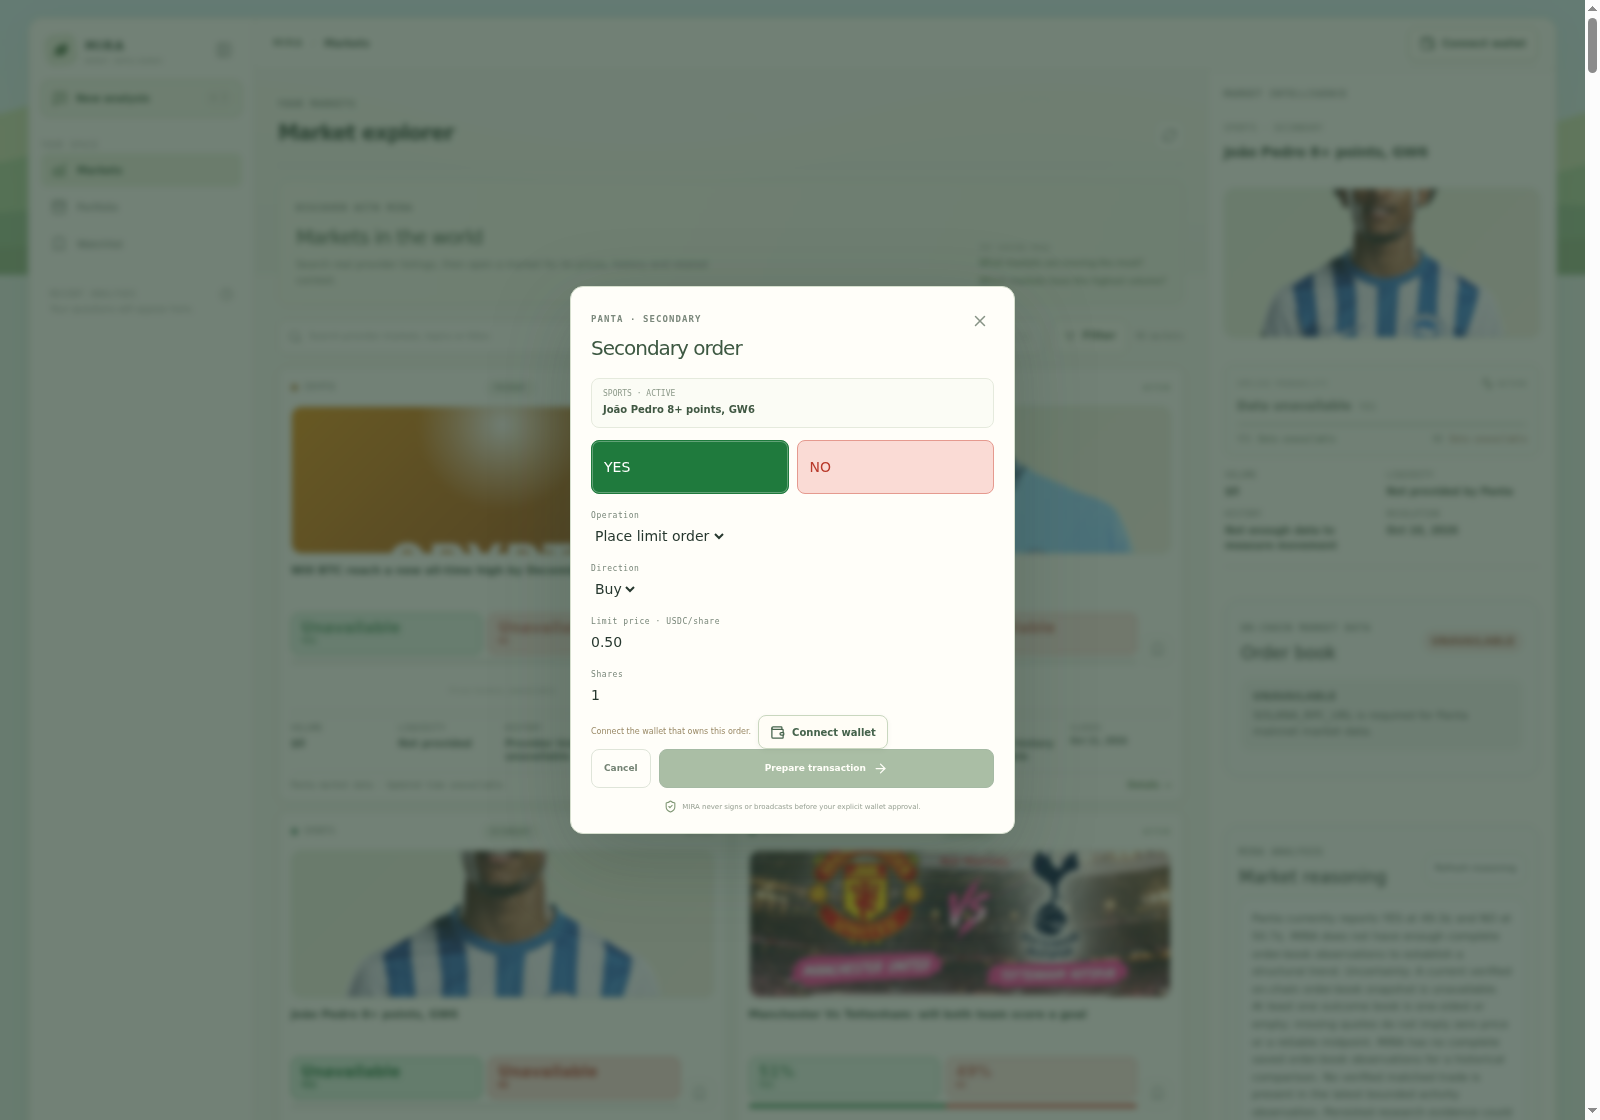
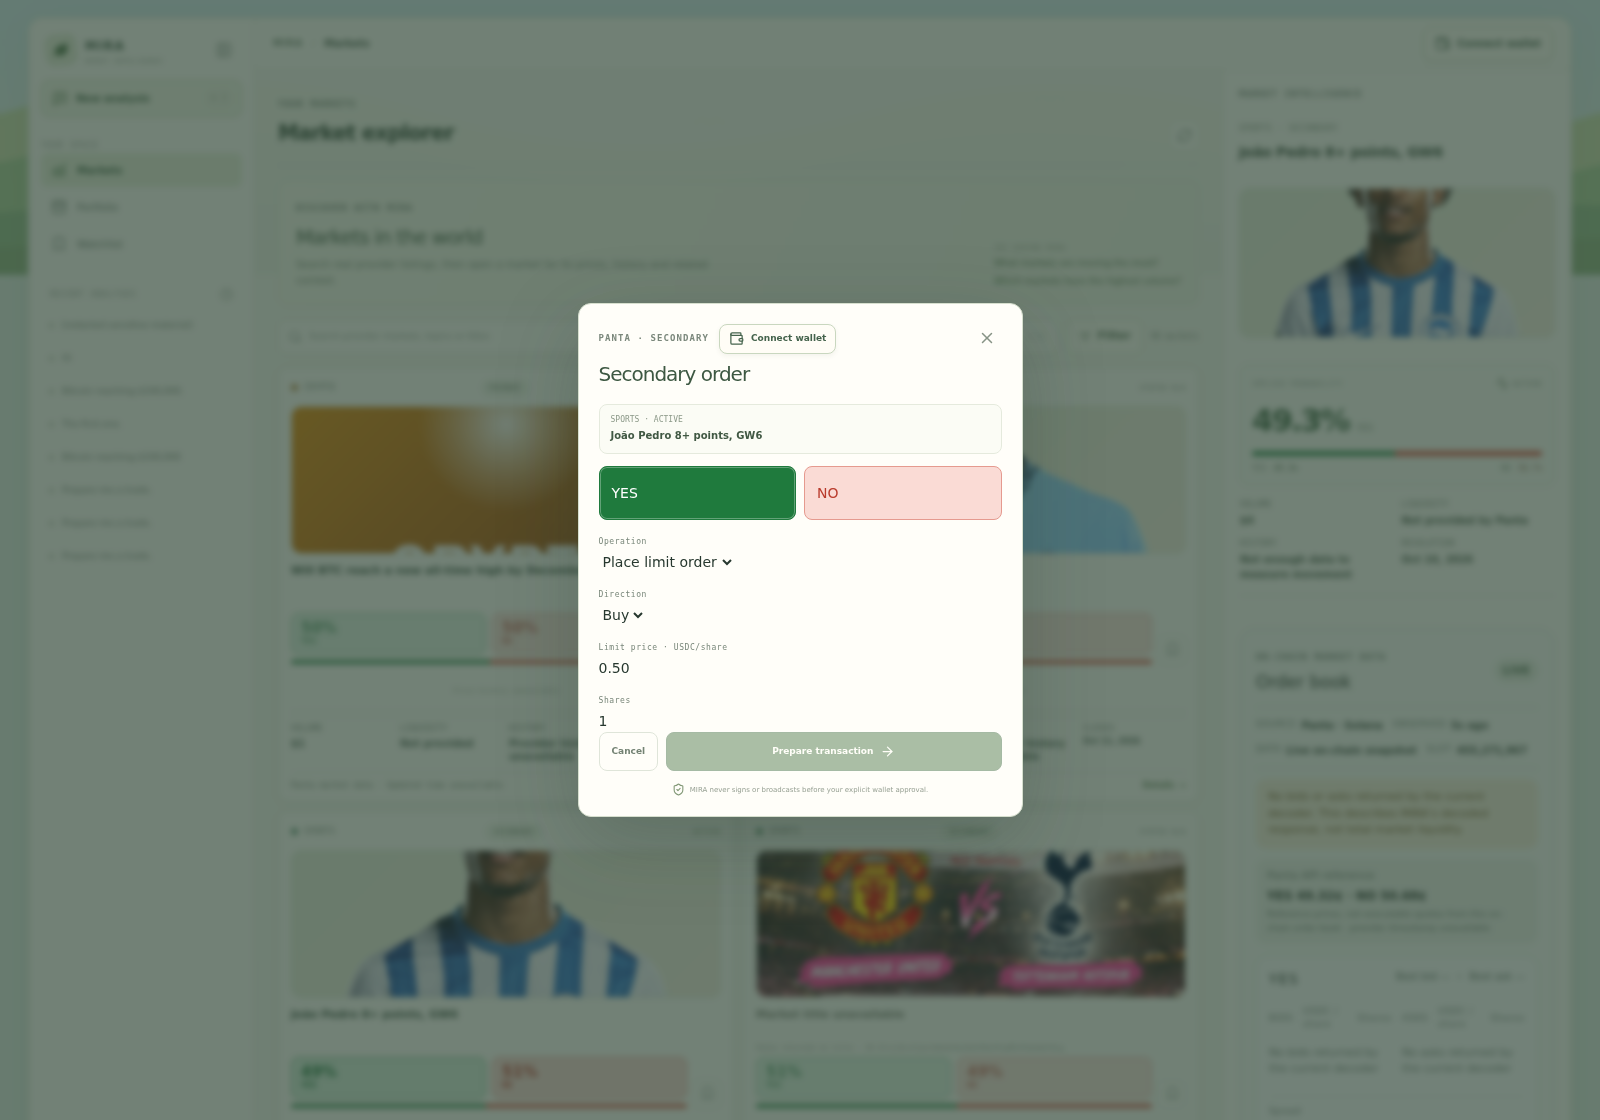
fix: reposition secondary ticket wallet control

diff --git a/components/wallet/TradeTicket.tsx b/components/wallet/TradeTicket.tsx
@@ -292,12 +292,11 @@ function SecondaryTradeTicket({ market, initialOutcome, wallet, onWallet, onClos
 
   return <div className="ticket-scrim" role="presentation" onMouseDown={(event) => { if (!busy && event.target === event.currentTarget) onClose(); }}>
     <motion.section className="trade-ticket" role="dialog" aria-modal="true" aria-labelledby="secondary-ticket-title" initial={{ opacity: 0, y: 12, scale: .985 }} animate={{ opacity: 1, y: 0, scale: 1 }} transition={{ duration: .2 }}>
-      <header className="trade-ticket__header"><div className="trade-ticket__heading"><span className="panel-kicker">PANTA · SECONDARY</span><h2 id="secondary-ticket-title">{stage === "complete" ? "Order reconciled" : "Secondary order"}</h2></div><button className="icon-button" disabled={busy} onClick={onClose} aria-label="Close secondary ticket"><X size={18} /></button></header>
+      <header className="trade-ticket__header"><div className="trade-ticket__heading"><div className="secondary-ticket__topline"><span className="panel-kicker">PANTA · SECONDARY</span><WalletButton onWallet={onWallet} currentWallet={wallet} /></div><h2 id="secondary-ticket-title">{stage === "complete" ? "Order reconciled" : "Secondary order"}</h2></div><button className="icon-button" disabled={busy} onClick={onClose} aria-label="Close secondary ticket"><X size={18} /></button></header>
       <div className="ticket-market"><span>{market.category ?? "Market"} · {market.status}</span><b>{market.question}</b></div>
       <div className="ticket-sides"><button className={side === "YES" ? "ticket-side ticket-side--yes is-selected" : "ticket-side ticket-side--yes"} aria-pressed={side === "YES"} onClick={() => setSide("YES")} disabled={busy}>YES</button><button className={side === "NO" ? "ticket-side ticket-side--no is-selected" : "ticket-side ticket-side--no"} aria-pressed={side === "NO"} onClick={() => setSide("NO")} disabled={busy}>NO</button></div>
       <label className="ticket-amount-label">Operation</label><select value={operationType} onChange={(event) => setOperationType(event.target.value as "placement" | "cancellation")} disabled={busy || Boolean(build)}><option value="placement">Place limit order</option><option value="cancellation">Cancel my order</option></select>
       {operationType === "placement" ? <><label className="ticket-amount-label">Direction</label><select value={buy ? "buy" : "sell"} onChange={(event) => setBuy(event.target.value === "buy")} disabled={busy || Boolean(build)}><option value="buy">Buy</option><option value="sell">Sell</option></select><label className="ticket-amount-label">Limit price · USDC/share</label><input value={price} onChange={(event) => setPrice(event.target.value)} disabled={busy || Boolean(build)} /><label className="ticket-amount-label">Shares</label><input value={shares} onChange={(event) => setShares(event.target.value)} disabled={busy || Boolean(build)} /></> : <><label className="ticket-amount-label">Exact order-node address</label><input value={targetOrder} onChange={(event) => setTargetOrder(event.target.value)} disabled={busy || Boolean(build)} /></>}
-      {!wallet && <div className="ticket-wallet-note">Connect the wallet that owns this order.<WalletButton onWallet={onWallet} currentWallet={wallet} /></div>}
       {build && <section className="ticket-quote"><dl className="ticket-quote__metrics"><div><dt>Operation</dt><dd>{operationType}</dd></div><div><dt>Market</dt><dd>{market.id}</dd></div><div><dt>Wallet</dt><dd>{wallet?.publicKey?.toBase58()}</dd></div><div><dt>Build expiry</dt><dd>{new Date(build.expiresAt).toLocaleString()}</dd></div></dl><p className="ticket-confirm-copy">Review the instruction in your wallet. MIRA verifies the exact persisted message and confirms execution before reconciling the order.</p></section>}
       {busy && <div className="ticket-detail-note" role="status"><LoaderCircle className="spin" size={15} /> {stage === "building" ? "Validating market and order-book accounts…" : stage === "signing" ? "Waiting for wallet approval…" : stage === "broadcasting" ? "Broadcasting transaction…" : stage === "confirming" ? "Confirming transaction on mainnet…" : "Reconciling order state…"}</div>}
       {status && <p className="ticket-footnote">Order reconciliation: {status}</p>}{notificationStatus && <p className="ticket-footnote">Panta notification: {notificationStatus}</p>}{signature && <p className="ticket-footnote">Signature: {signature}</p>}{error && <div className="ticket-error" role="alert"><AlertTriangle size={15} />{error}</div>}

diff --git a/app/globals.css b/app/globals.css
@@ -217,6 +217,8 @@
 .trade-ticket__mira>span:last-child{min-width:0}
 .trade-ticket__mira .panel-kicker{font-size:7px}
 .trade-ticket__heading{min-width:0;display:block}
+.secondary-ticket__topline{display:flex;align-items:center;gap:10px;margin-bottom:5px}
+.secondary-ticket__topline .wallet-connect,.secondary-ticket__topline .wallet-connected{height:30px;padding:0 9px;font-size:9px}
 .trade-ticket__badges{display:flex;align-items:center;flex-wrap:wrap;gap:4px 6px}
 .trade-ticket__badges .panel-kicker{letter-spacing:.06em}
 .trade-ticket__status,.trade-ticket__cluster{display:inline-flex;align-items:center;min-height:16px;padding:2px 5px;border:1px solid #dce6d6;border-radius:4px;background:#f4f8ef;color:#61775c;font:600 7px/1.15 var(--mono);letter-spacing:.025em}
